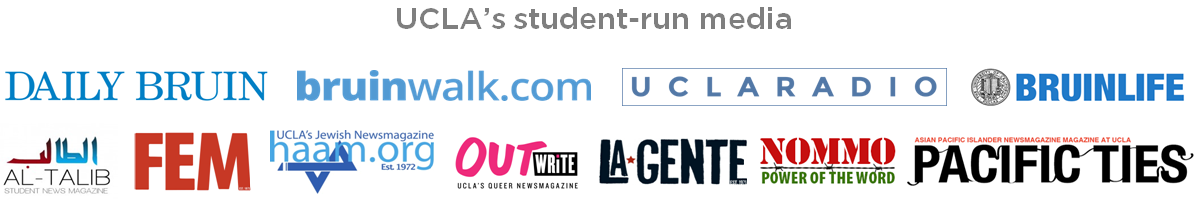
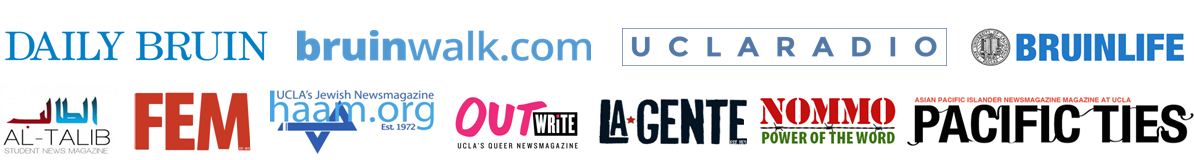
add line break to title, fix media.png

Changed region(s): [[0.0, 0.5625, 1.0, 0.9688], [0.3099, 0.0312, 0.9916, 0.5312], [0.0, 0.1875, 0.4958, 0.5312]]

diff --git a/index.html b/index.html
@@ -31,7 +31,7 @@
       <div class="about">
 
         <span class="homepage-title">
-          For 97 years, we've told UCLA's story. Now, we need your help.
+          For 97 years, we've told UCLA's story.<br> Now, we need your help.
         </span>
 
         <p>The Daily Bruin and Bruinwalk.com Referendum calls for a $3 student fee increase to keep UCLA's <b>student-run professor review site</b> and <b>daily student newspaper</b> alive for years to come. For decades, the Daily Bruin and its sister publications have relied on selling printed newspaper ads as our main source of income. But now – as readers increasingly use our services online, and print advertising can't support us anymore – <b>UCLA's student-run media need your vote</b> to let us continue serving the campus.</p>
@@ -39,6 +39,9 @@
 
         <a class="button" href="http://my.ucla.edu">Log In to MyUCLA and click "Elections" to vote</a>
 
+         <br><br>
+
+        <p>UCLA's student-run media:</p>
          <img id="media_titles" src="media.png">
 
       </div>

diff --git a/css/app.css b/css/app.css
@@ -302,5 +302,5 @@ div.large-12-columns.hide {
 }
 
 #media_titles {
-	padding: 50px 50px 70px 50px;
+	padding: 1px 50px 70px 50px;
 }
